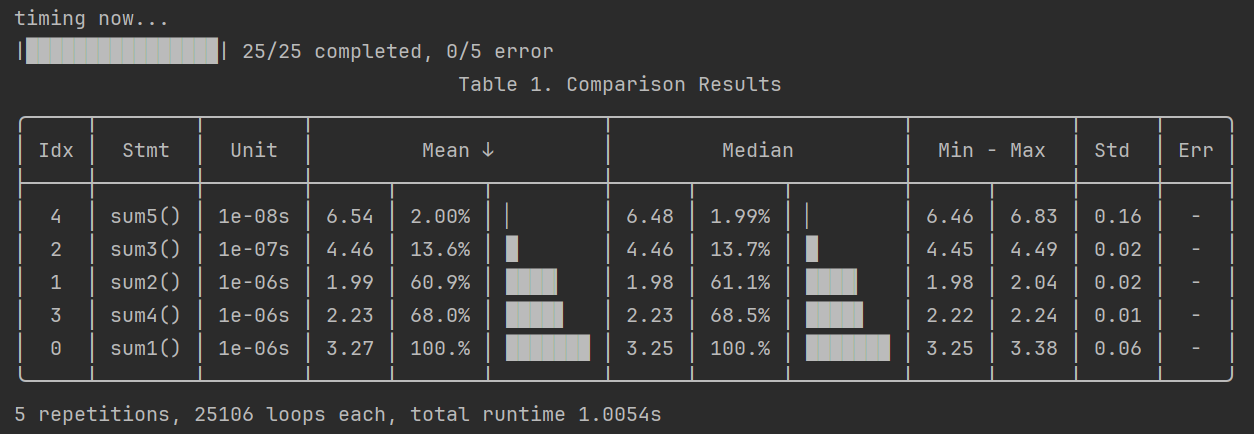
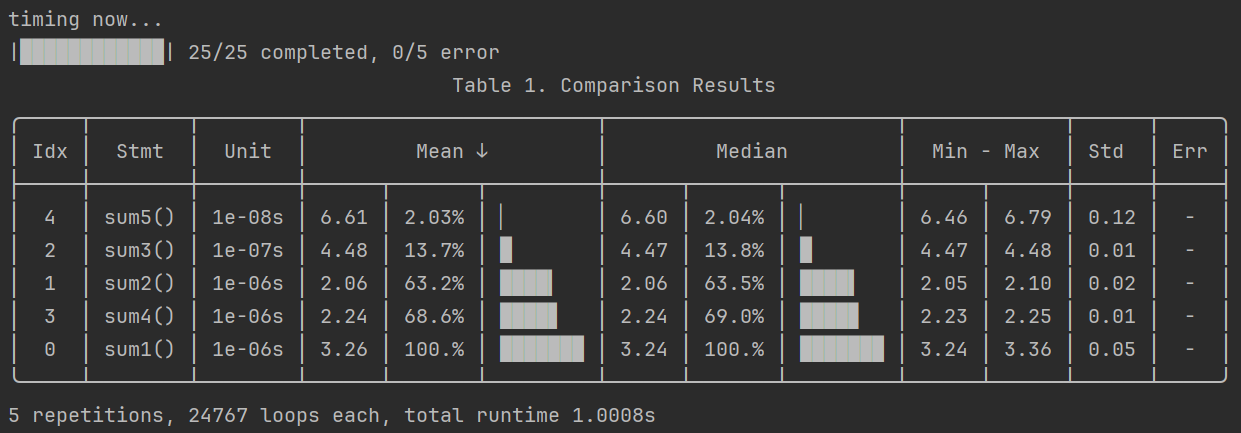
Add files via upload

diff --git a/timeit_compare.py b/timeit_compare.py
@@ -367,8 +367,9 @@ class Compare:
         def update_process():
             if not show_process:
                 return
-            process = _process_bar(_percent(complete, total_repeat), 16)
-            string = (f'\r|{process}| {complete}/{total_repeat} completed, '
+            percent = _percent(complete, total_repeat)
+            string = (f'\r|{_process_bar(percent, 12)}| '
+                      f'{complete}/{total_repeat} completed, '
                       f'{error}/{timer_num} error')
             print(string, end='', flush=True)
 
@@ -390,8 +391,8 @@ class Compare:
                     if error == timer_num:
                         return 0
                     if total_time > 0.2:
-                        return max(round((time * (n / total_time)) / repeat), 1)
-                    n <<= 1
+                        return max(round(n * time / total_time / repeat), 1)
+                    n = int(n * 0.25 / total_time) + 1 if total_time else n * 2
 
             try:
                 number = estimate()
@@ -541,6 +542,7 @@ def compare(
         repeat: int = 5,
         number: int = 0,
         time: Union[float, int] = 1.0,
+        show_process: bool = True,
         sort_by: str = 'mean',
         reverse: bool = False,
         decimal: int = 2
@@ -558,7 +560,7 @@ def compare(
 
     See add_timer, run, and print_results methods of the class Compare.
     """
-    run_args = Compare._run_args(repeat, number, time, True)
+    run_args = Compare._run_args(repeat, number, time, show_process)
     print_results_args = Compare._print_results_args(sort_by, reverse, decimal)
     cmp = Compare()
     for args in timer_args:

diff --git a/setup.py b/setup.py
@@ -5,7 +5,7 @@ with open('README.md', 'r', encoding='utf-8') as f:
 
 setup(
     name='timeit_compare',
-    version='1.2.0',
+    version='1.2.1',
     py_modules=['timeit_compare'],
     license='MIT',
     python_requires='>=3.6.0',
